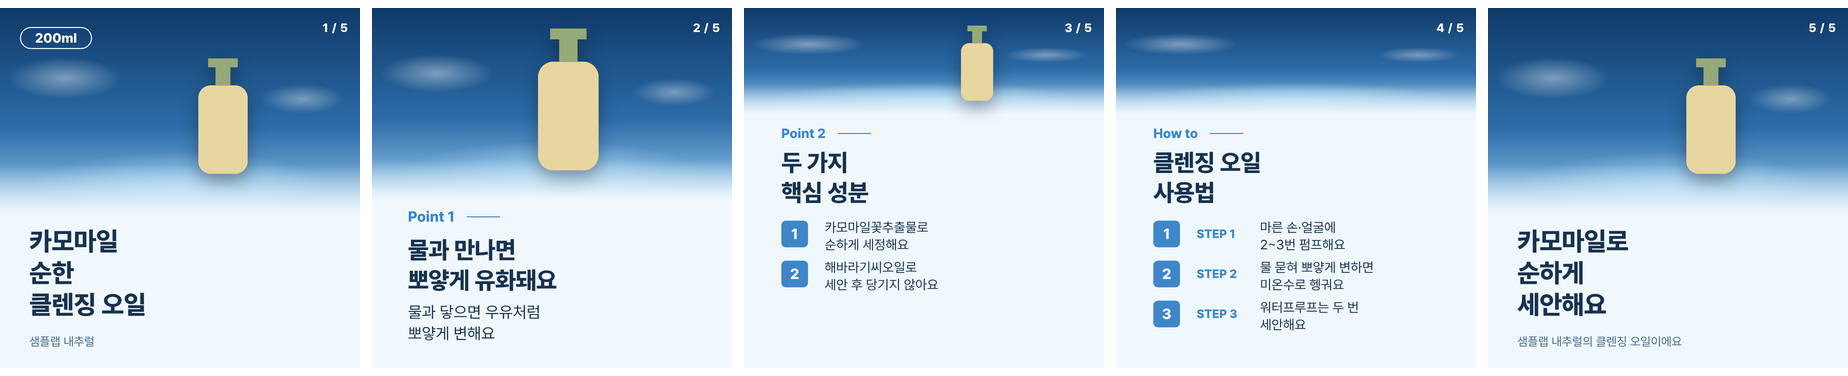
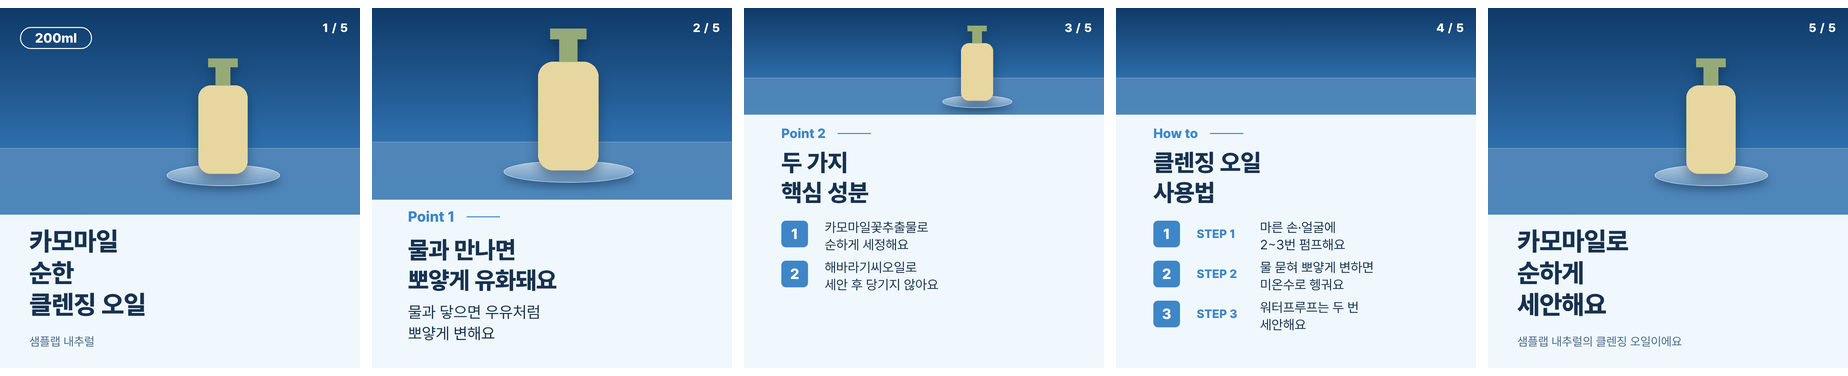
fix: 연출 띠 배경 사진이 없을 때 흐림 대신 스튜디오 무대 (#74)
- 빛 번짐 원·아래 흐림으로 사진을 흉내 내던 대체 화면을 짙은 파랑 벽·바닥 경계선·유리 받침·제품 그림자로 바꿈
- 아래 면으로 번지는 그라데이션은 배경 사진이 있을 때만, 제품 사진이 없는 카드는 받침도 숨김
- 연출 미리보기·문서 갱신

Claude-Session: https://claude.ai/code/session_018YrLzsCyGz4gDBsGGHA7XS

diff --git a/templates/band/cover.html b/templates/band/cover.html
@@ -3,19 +3,21 @@
    흰 테두리 알약 용량, 아래 연한 하늘색 면에 남색 제목 3줄 + 브랜드 자리. 색은 묶음 고유색(_theme) */
 .card.band { padding:0; background:var(--color-bg); }
 .band__scene { position:absolute; left:0; top:0; width:1080px; overflow:hidden;
-  background:
-    radial-gradient(22% 14% at 18% 34%, rgb(255 255 255 / .42), transparent 72%),
-    radial-gradient(16% 10% at 84% 44%, rgb(255 255 255 / .38), transparent 72%),
-    radial-gradient(60% 26% at 50% 88%, var(--color-scene-light), transparent 72%),
-    linear-gradient(180deg, var(--color-scene-deep) 0%, var(--color-scene-mid) 58%, var(--color-scene-light) 100%); }
-.band__scene-img { position:absolute; inset:0; width:100%; height:100%; object-fit:cover; display:none; }
+  background: linear-gradient(180deg, var(--color-scene-deep) 0%, var(--color-scene-mid) 64%, color-mix(in srgb, var(--color-scene-mid) 80%, var(--color-scene-light)) 100%); }
+/* 배경 사진이 없을 때: 사진 흉내(빛 번짐·흐림) 대신 스튜디오 무대 — 벽·바닥 경계·유리 받침 */
+.band__scene::before { content:""; position:absolute; left:0; right:0; bottom:0; height:var(--band-floor, 30%); background:linear-gradient(180deg, rgb(255 255 255 / .16), rgb(255 255 255 / .06)); border-top:2px solid rgb(255 255 255 / .28); }
+.band__stage { position:absolute; z-index:1; border-radius:50%; background:linear-gradient(180deg, rgb(255 255 255 / .55), rgb(255 255 255 / .16)); border:2px solid rgb(255 255 255 / .55); box-shadow:0 14px 24px rgb(4 24 52 / .35); }
+.band__scene-img { position:absolute; inset:0; width:100%; height:100%; object-fit:cover; display:none; z-index:2; }
 .has-scene .band__scene-img { display:block; }
-.band__scene::after { content:""; position:absolute; left:0; right:0; bottom:0; height:var(--band-fade, 140px); background:linear-gradient(to bottom, transparent, var(--color-bg)); }
-.band__photo { position:absolute; display:block; object-fit:contain; object-position:center bottom; z-index:1; filter:drop-shadow(0 22px 26px rgb(0 0 0 / .32)); }
+.has-scene .band__stage, .no-image .band__stage { display:none; }
+/* 아래 면으로 이어지는 그라데이션은 배경 사진이 있을 때만 */
+.band__scene::after { content:""; display:none; position:absolute; z-index:3; left:0; right:0; bottom:0; height:var(--band-fade, 140px); background:linear-gradient(to bottom, transparent, var(--color-bg)); }
+.has-scene .band__scene::after { display:block; }
+.band__photo { position:absolute; display:block; object-fit:contain; object-position:center bottom; z-index:2; filter:drop-shadow(0 18px 18px rgb(4 24 52 / .40)); }
 .band .pager { position:absolute; right:35px; top:38px; font-size:36px; font-weight:800; color:#FFFFFF; z-index:3; }
 .band-label { position:absolute; display:flex; align-items:center; gap:36px; font-size:44px; font-weight:800; line-height:1.2; color:var(--color-primary); z-index:2; }
 .band-label::after { content:""; width:100px; height:3px; background:var(--color-primary); }
-.band-cover .band__scene { height:620px; --band-fade:150px; }
+.band-cover .band__scene { height:620px; --band-fade:150px; --band-floor:32%; }
 .band-cover .band__photo { left:400px; top:150px; width:540px; height:350px; }
 .band-cover .badge { position:absolute; left:60px; top:57px; height:66px; max-width:420px; padding:0 42px; border:3px solid #FFFFFF; border-radius:33px; background:transparent; color:#FFFFFF; font-size:40px; font-weight:800; line-height:60px; z-index:3; }
 .band-cover__title { position:absolute; left:88px; top:652px; width:904px; font-size:78px; font-weight:800; line-height:1.22; letter-spacing:-0.01em; max-height:286px; color:var(--color-text); z-index:2; }
@@ -25,7 +27,7 @@
 .band-cover.no-image .band__photo { display:none; }
 </style>
 <article class="card band band-cover role-{{role}} {{imageClass}} {{sceneClass}}">
-  <div class="band__scene image__frame" aria-hidden="true"><img class="band__scene-img" src="{{scene}}" alt=""></div>
+  <div class="band__scene image__frame" aria-hidden="true"><img class="band__scene-img" src="{{scene}}" alt=""><div class="band__stage" style="left:500px; top:470px; width:340px; height:64px"></div></div>
   <img class="band__photo" style="{{imageCrop}}" src="{{image}}" alt="">
   <span class="badge" data-fit>{{badge}}</span><span class="pager">{{page}} / {{total}}</span>
   <h1 class="band-cover__title" data-fit>{{title}}</h1>

diff --git a/templates/band/description.html b/templates/band/description.html
@@ -3,19 +3,21 @@
    남색 제목 2줄, 번호 상자(하늘색 둥근 사각형) + STEP N + 내용 2줄씩 세로로 */
 .card.band { padding:0; background:var(--color-bg); }
 .band__scene { position:absolute; left:0; top:0; width:1080px; overflow:hidden;
-  background:
-    radial-gradient(22% 14% at 18% 34%, rgb(255 255 255 / .42), transparent 72%),
-    radial-gradient(16% 10% at 84% 44%, rgb(255 255 255 / .38), transparent 72%),
-    radial-gradient(60% 26% at 50% 88%, var(--color-scene-light), transparent 72%),
-    linear-gradient(180deg, var(--color-scene-deep) 0%, var(--color-scene-mid) 58%, var(--color-scene-light) 100%); }
-.band__scene-img { position:absolute; inset:0; width:100%; height:100%; object-fit:cover; display:none; }
+  background: linear-gradient(180deg, var(--color-scene-deep) 0%, var(--color-scene-mid) 64%, color-mix(in srgb, var(--color-scene-mid) 80%, var(--color-scene-light)) 100%); }
+/* 배경 사진이 없을 때: 사진 흉내(빛 번짐·흐림) 대신 스튜디오 무대 — 벽·바닥 경계·유리 받침 */
+.band__scene::before { content:""; position:absolute; left:0; right:0; bottom:0; height:var(--band-floor, 30%); background:linear-gradient(180deg, rgb(255 255 255 / .16), rgb(255 255 255 / .06)); border-top:2px solid rgb(255 255 255 / .28); }
+.band__stage { position:absolute; z-index:1; border-radius:50%; background:linear-gradient(180deg, rgb(255 255 255 / .55), rgb(255 255 255 / .16)); border:2px solid rgb(255 255 255 / .55); box-shadow:0 14px 24px rgb(4 24 52 / .35); }
+.band__scene-img { position:absolute; inset:0; width:100%; height:100%; object-fit:cover; display:none; z-index:2; }
 .has-scene .band__scene-img { display:block; }
-.band__scene::after { content:""; position:absolute; left:0; right:0; bottom:0; height:var(--band-fade, 140px); background:linear-gradient(to bottom, transparent, var(--color-bg)); }
-.band__photo { position:absolute; display:block; object-fit:contain; object-position:center bottom; z-index:1; filter:drop-shadow(0 22px 26px rgb(0 0 0 / .32)); }
+.has-scene .band__stage, .no-image .band__stage { display:none; }
+/* 아래 면으로 이어지는 그라데이션은 배경 사진이 있을 때만 */
+.band__scene::after { content:""; display:none; position:absolute; z-index:3; left:0; right:0; bottom:0; height:var(--band-fade, 140px); background:linear-gradient(to bottom, transparent, var(--color-bg)); }
+.has-scene .band__scene::after { display:block; }
+.band__photo { position:absolute; display:block; object-fit:contain; object-position:center bottom; z-index:2; filter:drop-shadow(0 18px 18px rgb(4 24 52 / .40)); }
 .band .pager { position:absolute; right:35px; top:38px; font-size:36px; font-weight:800; color:#FFFFFF; z-index:3; }
 .band-label { position:absolute; display:flex; align-items:center; gap:36px; font-size:44px; font-weight:800; line-height:1.2; color:var(--color-primary); z-index:2; }
 .band-label::after { content:""; width:100px; height:3px; background:var(--color-primary); }
-.band-description .band__scene { height:320px; --band-fade:90px; }
+.band-description .band__scene { height:320px; --band-fade:90px; --band-floor:34%; }
 .band-description .band__photo { left:540px; top:52px; width:320px; height:228px; }
 .band-description .band-label { left:112px; top:352px; font-size:40px; }
 .band-description__title { position:absolute; left:112px; top:418px; width:900px; font-size:72px; font-weight:800; line-height:1.25; letter-spacing:-0.01em; max-height:180px; color:var(--color-text); z-index:2; }
@@ -28,7 +30,7 @@
 .band-description.no-image .band__photo { display:none; }
 </style>
 <article class="card band band-description role-{{role}} {{imageClass}} {{sceneClass}}">
-  <div class="band__scene image__frame" aria-hidden="true"><img class="band__scene-img" src="{{scene}}" alt=""></div>
+  <div class="band__scene image__frame" aria-hidden="true"><img class="band__scene-img" src="{{scene}}" alt=""><div class="band__stage" style="left:595px; top:262px; width:210px; height:38px"></div></div>
   <img class="band__photo" style="{{imageCrop}}" src="{{image}}" alt="">
   <span class="pager">{{page}} / {{total}}</span>
   <div class="band-label">{{sectionLabel}}</div>

diff --git a/templates/band/image.html b/templates/band/image.html
@@ -3,19 +3,21 @@
    아래 'Point N ——' 하늘색 머리말, 남색 제목 2줄, 설명 2줄 */
 .card.band { padding:0; background:var(--color-bg); }
 .band__scene { position:absolute; left:0; top:0; width:1080px; overflow:hidden;
-  background:
-    radial-gradient(22% 14% at 18% 34%, rgb(255 255 255 / .42), transparent 72%),
-    radial-gradient(16% 10% at 84% 44%, rgb(255 255 255 / .38), transparent 72%),
-    radial-gradient(60% 26% at 50% 88%, var(--color-scene-light), transparent 72%),
-    linear-gradient(180deg, var(--color-scene-deep) 0%, var(--color-scene-mid) 58%, var(--color-scene-light) 100%); }
-.band__scene-img { position:absolute; inset:0; width:100%; height:100%; object-fit:cover; display:none; }
+  background: linear-gradient(180deg, var(--color-scene-deep) 0%, var(--color-scene-mid) 64%, color-mix(in srgb, var(--color-scene-mid) 80%, var(--color-scene-light)) 100%); }
+/* 배경 사진이 없을 때: 사진 흉내(빛 번짐·흐림) 대신 스튜디오 무대 — 벽·바닥 경계·유리 받침 */
+.band__scene::before { content:""; position:absolute; left:0; right:0; bottom:0; height:var(--band-floor, 30%); background:linear-gradient(180deg, rgb(255 255 255 / .16), rgb(255 255 255 / .06)); border-top:2px solid rgb(255 255 255 / .28); }
+.band__stage { position:absolute; z-index:1; border-radius:50%; background:linear-gradient(180deg, rgb(255 255 255 / .55), rgb(255 255 255 / .16)); border:2px solid rgb(255 255 255 / .55); box-shadow:0 14px 24px rgb(4 24 52 / .35); }
+.band__scene-img { position:absolute; inset:0; width:100%; height:100%; object-fit:cover; display:none; z-index:2; }
 .has-scene .band__scene-img { display:block; }
-.band__scene::after { content:""; position:absolute; left:0; right:0; bottom:0; height:var(--band-fade, 140px); background:linear-gradient(to bottom, transparent, var(--color-bg)); }
-.band__photo { position:absolute; display:block; object-fit:contain; object-position:center bottom; z-index:1; filter:drop-shadow(0 22px 26px rgb(0 0 0 / .32)); }
+.has-scene .band__stage, .no-image .band__stage { display:none; }
+/* 아래 면으로 이어지는 그라데이션은 배경 사진이 있을 때만 */
+.band__scene::after { content:""; display:none; position:absolute; z-index:3; left:0; right:0; bottom:0; height:var(--band-fade, 140px); background:linear-gradient(to bottom, transparent, var(--color-bg)); }
+.has-scene .band__scene::after { display:block; }
+.band__photo { position:absolute; display:block; object-fit:contain; object-position:center bottom; z-index:2; filter:drop-shadow(0 18px 18px rgb(4 24 52 / .40)); }
 .band .pager { position:absolute; right:35px; top:38px; font-size:36px; font-weight:800; color:#FFFFFF; z-index:3; }
 .band-label { position:absolute; display:flex; align-items:center; gap:36px; font-size:44px; font-weight:800; line-height:1.2; color:var(--color-primary); z-index:2; }
 .band-label::after { content:""; width:100px; height:3px; background:var(--color-primary); }
-.band-image .band__scene { height:575px; --band-fade:120px; }
+.band-image .band__scene { height:575px; --band-fade:120px; --band-floor:30%; }
 .band-image .band__photo { left:280px; top:60px; width:620px; height:430px; }
 .band-image .band__texture { display:none; position:absolute; left:250px; top:40px; width:680px; height:470px; object-fit:contain; z-index:1; }
 .band-image.has-texture .band__texture { display:block; }
@@ -26,7 +28,7 @@
 .band-image.no-image .band__photo { display:none; }
 </style>
 <article class="card band band-image role-{{role}} {{imageClass}} {{sceneClass}} {{textureClass}}">
-  <div class="band__scene image__frame" aria-hidden="true"><img class="band__scene-img" src="{{scene}}" alt=""></div>
+  <div class="band__scene image__frame" aria-hidden="true"><img class="band__scene-img" src="{{scene}}" alt=""><div class="band__stage" style="left:395px; top:458px; width:390px; height:66px"></div></div>
   <img class="band__photo" style="{{imageCrop}}" src="{{image}}" alt="">
   <div class="image__frame"><img class="band__texture" src="{{texture}}" alt=""></div>
   <span class="pager">{{page}} / {{total}}</span>

diff --git a/docs/handoff.md b/docs/handoff.md
@@ -8,7 +8,7 @@
 
 | 날짜 | 도구 | 이슈·브랜치 | 바뀐 점 |
 |---|---|---|---|
-| 2026-10-27 | Claude | #74 · `feat/74-new-designs` | **새 묶음 시안 충실도 재구성** (이규동 "시안이랑 너무 다르다 → 색뿐 아니라 디자인도 유지"): 시안 10·06·02를 1080px로 잘라 좌표·글자 크기·색을 재고 템플릿을 다시 씀. 같은 문구로 시안·출력을 나란히 비교하며 맞춤. **색**: 묶음 고유 팔레트 `_designs.<묶음>._theme`(color·font.files·contrast), 세 묶음 카드 색 기본값 `제품 색`→`기본`(고유색). 큰 글자 색 짝은 `_theme.contrast`로 대비 3.0 허용(`checkContrast`·`adjustContrast`·`decideColors` `pairMin`). 웹 데이터 색은 7개만 내보냄. **사진 자리**: 입력 이미지 5번째 칸 `용도`(제품·제형·배경, 비우면 제품; 양식·작업실 폼·check 경고), 템플릿 `{{texture}}`·`{{scene}}`(+`has-*` 클래스). 타이포·팝 특징 카드는 제형, 연출 띠 위쪽은 배경 사진(없으면 물빛 그라데이션). 카드 색 대표 사진에서 제형·배경 제외, Skill에 "카드 image는 제품 용도만" 한 줄. **줄 맞춤**: 굵기 900 글꼴을 먼저 불러온 뒤 크기 맞춤(`waitForFit`), 칸 높이 넘으면 줄 일괄 축소, 최소 크기로도 안 들어가면 줄바꿈. **점검**: 이미지 겹침은 실제 글자 줄 상자로(오탐 줄임), 글자 칸끼리 겹침 경고·calibrate 실패 추가. `tests/design-fidelity.test.js` + `tests/fixtures/design-fidelity.json`(주요 요소 위치·크기·색 기준값, ±14px)으로 배치 고정, `tests/image-kinds.test.js`. 글자 수 기준·`_measured` 재측정(전체 채움 5묶음 모두 통과), 미리보기 다시 만듦. **Skill·config 바뀜 → 규칙 버전 결정 필요** |
+| 2026-10-27 | Claude | #74 · `feat/74-new-designs` | **새 묶음 시안 충실도 재구성** (이규동 "시안이랑 너무 다르다 → 색뿐 아니라 디자인도 유지"): 시안 10·06·02를 1080px로 잘라 좌표·글자 크기·색을 재고 템플릿을 다시 씀. 같은 문구로 시안·출력을 나란히 비교하며 맞춤. **색**: 묶음 고유 팔레트 `_designs.<묶음>._theme`(color·font.files·contrast), 세 묶음 카드 색 기본값 `제품 색`→`기본`(고유색). 큰 글자 색 짝은 `_theme.contrast`로 대비 3.0 허용(`checkContrast`·`adjustContrast`·`decideColors` `pairMin`). 웹 데이터 색은 7개만 내보냄. **사진 자리**: 입력 이미지 5번째 칸 `용도`(제품·제형·배경, 비우면 제품; 양식·작업실 폼·check 경고), 템플릿 `{{texture}}`·`{{scene}}`(+`has-*` 클래스). 타이포·팝 특징 카드는 제형, 연출 띠 위쪽은 배경 사진(없으면 스튜디오 무대: 짙은 파랑 벽·바닥 경계·유리 받침, 흐림 없음 — 처음 넣은 빛 번짐·흐림 대체 화면은 어색하다는 의견으로 바꿈). 카드 색 대표 사진에서 제형·배경 제외, Skill에 "카드 image는 제품 용도만" 한 줄. **줄 맞춤**: 굵기 900 글꼴을 먼저 불러온 뒤 크기 맞춤(`waitForFit`), 칸 높이 넘으면 줄 일괄 축소, 최소 크기로도 안 들어가면 줄바꿈. **점검**: 이미지 겹침은 실제 글자 줄 상자로(오탐 줄임), 글자 칸끼리 겹침 경고·calibrate 실패 추가. `tests/design-fidelity.test.js` + `tests/fixtures/design-fidelity.json`(주요 요소 위치·크기·색 기준값, ±14px)으로 배치 고정, `tests/image-kinds.test.js`. 글자 수 기준·`_measured` 재측정(전체 채움 5묶음 모두 통과), 미리보기 다시 만듦. **Skill·config 바뀜 → 규칙 버전 결정 필요** |
 | 2026-10-26 | Claude | #74 · `feat/74-new-designs` | **디자인 묶음 2단계 — 새 묶음 3개**: GPT 시안 10종(이규동, 내부 참고·저장소에 안 올림) 중 이규동이 고른 10·06·02를 `타이포`(큰 타이포, `templates/typo/`)·`팝`(팝 컬러블록, `templates/pop/`)·`연출`(위쪽 연출 띠, `templates/band/`)로 구현. `_designs`·`_catalog`(설명·fits·avoid·needs·version 1·`docs/designs/*/preview.png`), 입력 무드 선택지에 추가. 색은 카드 색 7개만 쓰고 보색은 CSS 상대 색(장식용, 글자 없음). 연출 띠는 배경 사진 대신 제품 색 짙은 띠. calibrate 전체 채움 통과(타이포 52·팝 64·연출 64), `tests/new-designs-render.test.js`(test:render). 기존 기본·프리미엄 그대로 |
 | 2026-10-26 | Claude | #74 · `feat/74-design-records` | **디자인 묶음 4단계 — 기록에 남기기**: `designRecord()`(`common.js`: `id`·`name`·`version`·`source`·`selected_by`·`reason`). `render-report.json` `design` + 출력 첫 줄 '디자인 묶음: …'. 웹 데이터 `project.json` `design`(v0.3 선택 칸, 스키마·타입), V2 카드 결과 '디자인 묶음' 섹션. 평가 `result.json` `design`(선택 칸). A6 비교: `consistency.design_match`, 묶음별 `designs` 횟수, CLI 줄. 예시 웹 데이터(toneup-sunscreen-r1)에 `design` 추가. 결과(PNG·문구)는 같음 |
 | 2026-10-26 | Claude | #74 · `feat/74-design-select` | **디자인 묶음 3단계 — 무드 자동 추천·구성안에서 고르기**: 입력 `무드`에 `자동 추천`(양식 v1.3). `cards.json` 최상위 `design` `{id, selected_by: claude\|human, reason}`(스키마·validate: 자동 추천인데 없으면·목록에 없는 이름·빈 이유면 `SCHEMA_ERROR`, 입력 무드와 다르면 경고). `npm run check`는 자동 추천이고 아직 안 골랐으면 글자 수 대신 묶음 목록, 고른 뒤엔 그 묶음 기준. `cardnews-content` Skill 3단계(자동 추천일 때만 고르고 이유)·5단계(design 있으면 check 다시). 작업실: `PUT /api/studio/products/:id/design`(구성안 승인 전·입력 무드 직접 지정 아님), 기록 `design_selected`(`design`·`from`·`by`), 구성안 확인·카드 확인에 '디자인 묶음' 패널. 웹 데이터 타임라인 이벤트에 `design_selected` 추가(버전 그대로). **자동 추천을 고를 때만 동작 → 기존 입력·평가 입력 결과 같음. Skill 문구가 바뀌어 규칙 버전 결정 필요** |

diff --git a/docs/designs/README.md b/docs/designs/README.md
@@ -12,7 +12,7 @@
 - 시안 이미지·명세·제품 조사표는 실제 브랜드 제품을 참고한 **팀 내부 자료**라 저장소에 올리지 않아요 (이규동 PC). 시안의 색·배치·역할별 차이만 템플릿으로 옮겼고, 실제 브랜드 이름·로고·패키지는 쓰지 않았어요.
 - **시안 충실도 (#74):** 새 묶음 셋은 시안을 1080px로 잘라 좌표·글자 크기·색을 재고 그대로 옮겼어요. 같은 문구로 시안과 우리 출력을 나란히 놓고 비교하며 맞췄어요.
   - **색:** 묶음 고유색 `_designs.<묶음>._theme.color`(시안에서 뽑은 색)를 쓰고, 카드 색 기본값은 `기본`(= 고유색)이에요. `제품 색`을 고르면 고유색 대신 제품 색이 들어가 시안과 달라져요. 큰 글자만 있는 색 짝은 `_theme.contrast`로 대비 3.0까지 허용해요(팝 코랄 위 흰 글자 등).
-  - **사진 자리:** 입력 이미지의 용도(`제품`·`제형`·`배경`, [input-form.md](../input-form.md))에 따라 템플릿이 자리를 채워요. 타이포·팝 특징 카드는 `제형` 사진(크림 자국·젤)을, 연출 띠 위쪽은 `배경` 사진을 써요. 없으면 제품 사진·물빛 그라데이션으로 대신해요.
+  - **사진 자리:** 입력 이미지의 용도(`제품`·`제형`·`배경`, [input-form.md](../input-form.md))에 따라 템플릿이 자리를 채워요. 타이포·팝 특징 카드는 `제형` 사진(크림 자국·젤)을, 연출 띠 위쪽은 `배경` 사진을 써요. 없으면 제품 사진으로, 연출 띠는 스튜디오 무대(짙은 파랑 벽·바닥 경계·유리 받침)로 대신해요. 사진 흉내(빛 번짐·흐림)는 쓰지 않고, 아래 면으로 번지는 그라데이션도 배경 사진이 있을 때만 써요.
   - **배치 고정:** `tests/design-fidelity.test.js`가 표지·특징·사용법 카드의 주요 요소 위치·크기·색을 `tests/fixtures/design-fidelity.json` 기준값(시안 실측)과 비교해요. 템플릿을 고쳐 14px 넘게 움직이거나 색이 바뀌면 실패해요. 시안을 바꿀 때만 기준값을 고쳐요.
   - **글자 수:** `node scripts/calibrate.js --design <묶음>`으로 잰 값에 맞췄어요(`_measured`). 큰 제목은 줄마다 폭에 맞춰 커지고, 최소 크기로도 안 들어가면 단어 단위로 줄바꿈해요. 글자 칸끼리 겹치면 출력 경고·calibrate 실패예요.
 - 미리보기 다시 만들기: 각 무드로 가상 제품을 `npm run render` → 카드 5장을 360px로 줄여 가로로 붙임. 묶음 글자 수 기준에 맞게 문구 줄바꿈만 고쳐 출력해요 (2026-10-27 시안 충실도 재구성 후 다시 만듦).
